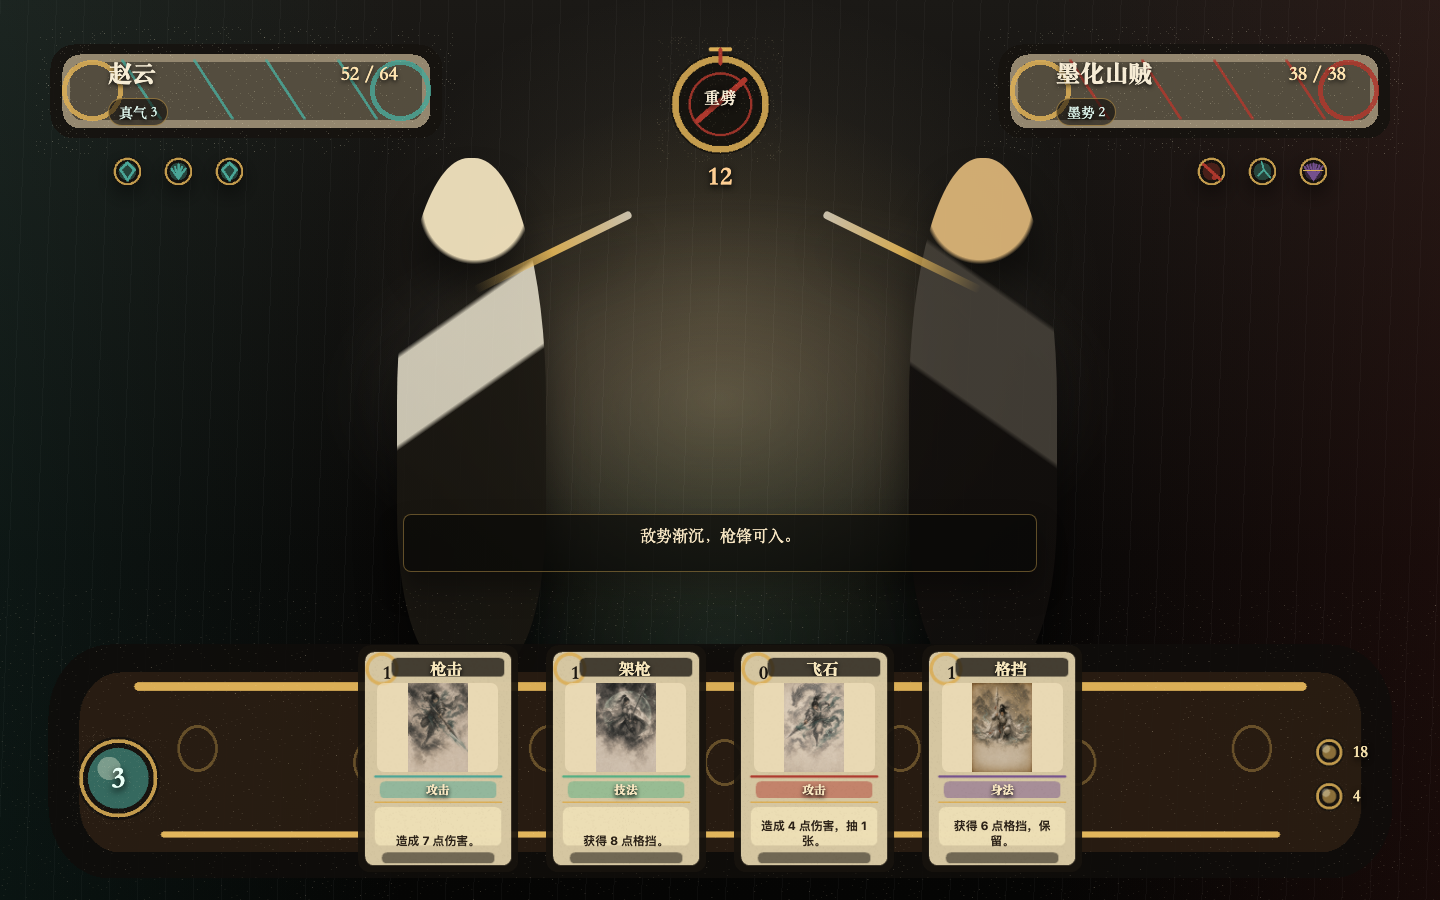
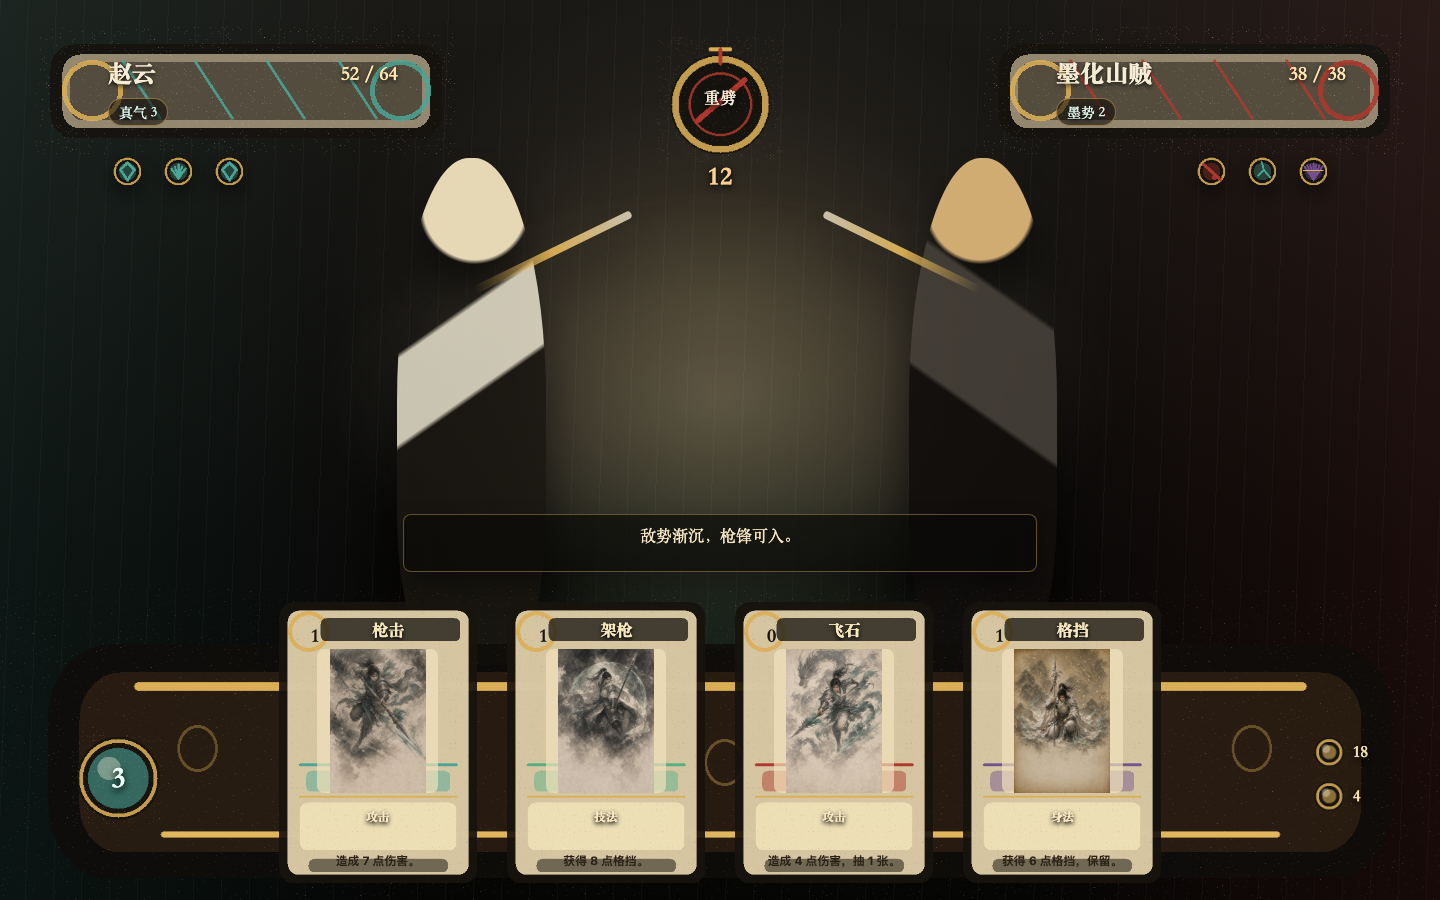
fix: enlarge prototype card art window

Changed region(s): [[0.1875, 0.6533, 0.8125, 0.9956]]

diff --git a/docs/superpowers/prototypes/combat-ui-kit/styles.css b/docs/superpowers/prototypes/combat-ui-kit/styles.css
@@ -286,10 +286,10 @@ button {
 .card-row {
   position: absolute;
   right: clamp(126px, 13vw, 220px);
-  bottom: 24px;
+  bottom: 12px;
   left: clamp(126px, 13vw, 220px);
   display: grid;
-  grid-template-columns: repeat(4, minmax(128px, 168px));
+  grid-template-columns: repeat(4, minmax(150px, 208px));
   justify-content: center;
   gap: clamp(10px, 1.4vw, 22px);
 }
@@ -365,9 +365,9 @@ button {
 .combat-ui-prototype-card-art {
   position: absolute;
   top: 18%;
-  right: 14%;
-  left: 14%;
-  height: 38%;
+  right: 21%;
+  left: 21%;
+  height: 49.5%;
   overflow: hidden;
   border-radius: 7px;
   background: rgba(241, 226, 188, 0.68);
@@ -382,7 +382,7 @@ button {
 
 .card-type {
   position: absolute;
-  top: 59.8%;
+  top: 72.5%;
   right: 16%;
   left: 16%;
   color: #f9e8c2;
@@ -395,7 +395,7 @@ button {
 .card-text {
   position: absolute;
   right: 16%;
-  bottom: 12%;
+  bottom: 6.8%;
   left: 16%;
   display: -webkit-box;
   overflow: hidden;

diff --git a/tests/e2e/combat-ui-prototype.spec.ts b/tests/e2e/combat-ui-prototype.spec.ts
@@ -9,7 +9,7 @@ async function expectCardTitlesClearArt(page: Page): Promise<void> {
       const objectFit = artImage ? getComputedStyle(artImage).objectFit : undefined;
 
       return title && art
-        ? { titleBottom: title.bottom, artTop: art.top, artHeight: art.height, cardHeight: item.getBoundingClientRect().height, objectFit }
+        ? { titleBottom: title.bottom, artTop: art.top, artWidth: art.width, artHeight: art.height, cardHeight: item.getBoundingClientRect().height, objectFit }
         : undefined;
     })
   );
@@ -17,7 +17,8 @@ async function expectCardTitlesClearArt(page: Page): Promise<void> {
   for (const rect of cardRects) {
     expect(rect).toBeDefined();
     expect(rect!.titleBottom).toBeLessThanOrEqual(rect!.artTop - 2);
-    expect(rect!.artHeight).toBeGreaterThan(rect!.cardHeight * 0.34);
+    expect(rect!.artHeight).toBeGreaterThan(rect!.cardHeight * 0.48);
+    expect(rect!.artWidth).toBeLessThan(rect!.artHeight);
     expect(rect!.objectFit).toBe("contain");
   }
 }